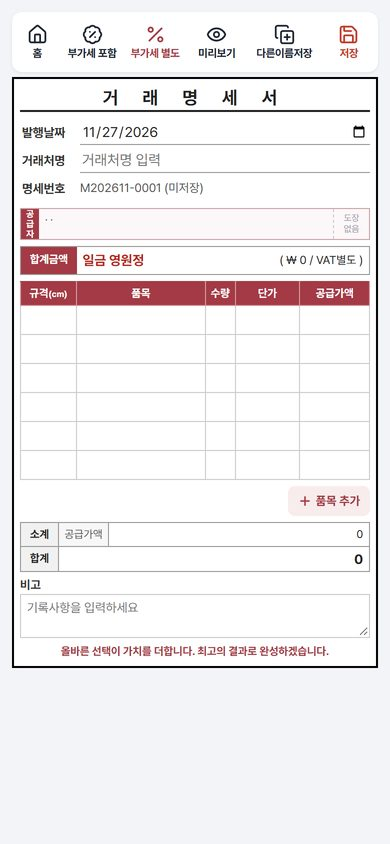
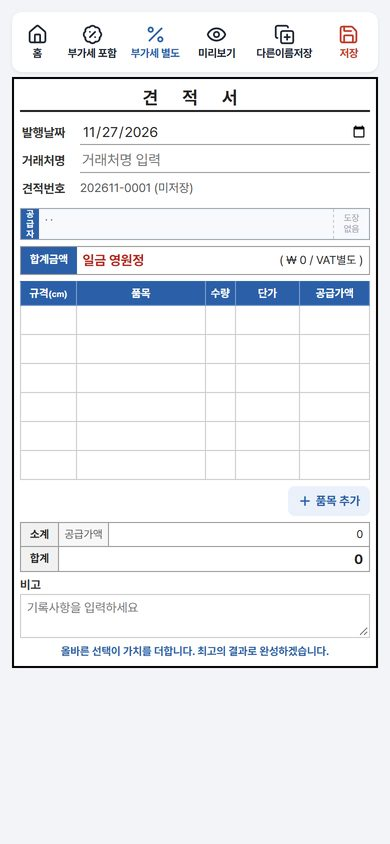
샬롬견적서 미리 보기에 메인 화면 추가 (모든 앱 첫 사진은 메인 화면)

diff --git a/apps.js b/apps.js
@@ -17,7 +17,7 @@ window.DJ_APPS = [
     line: "사진 콜라주와 카드를 뚝딱 만들어요.",
     joke: "손재주 없어도 뚝딱. 진짜임" },
   { id: "shalom", name: "샬롬견적서", cat: "tool", url: "https://djsk-bible.github.io/shalom-quote/",
-    icon: "icons/shalom.png", shots: ["shots/shalom-1.jpg", "shots/shalom-2.jpg"], color: "#ffffff",
+    icon: "icons/shalom.png", shots: ["shots/shalom-1.jpg", "shots/shalom-2.jpg", "shots/shalom-3.jpg"], color: "#ffffff",
     line: "샬롬광고기획 견적서를 폰에서 바로 써요.",
     joke: "견적은 정확하게, 말은 친절하게" }
 ];
